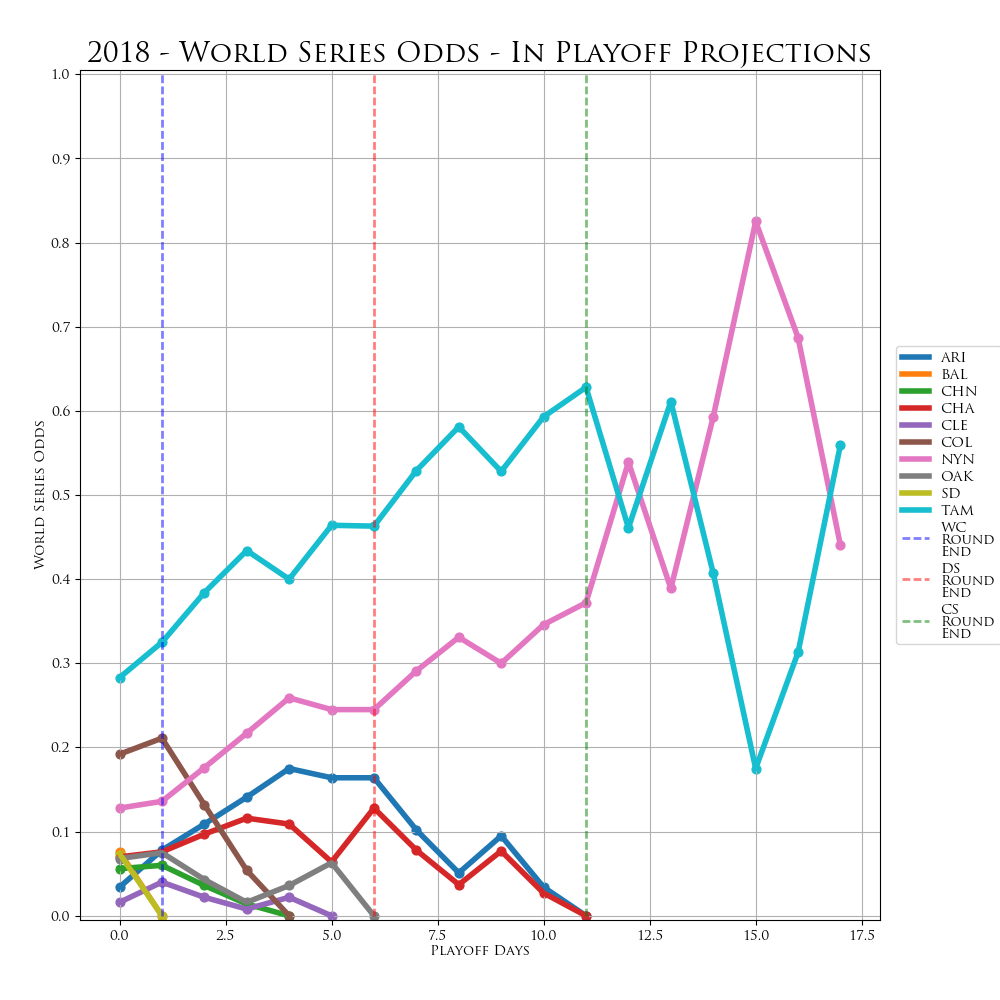
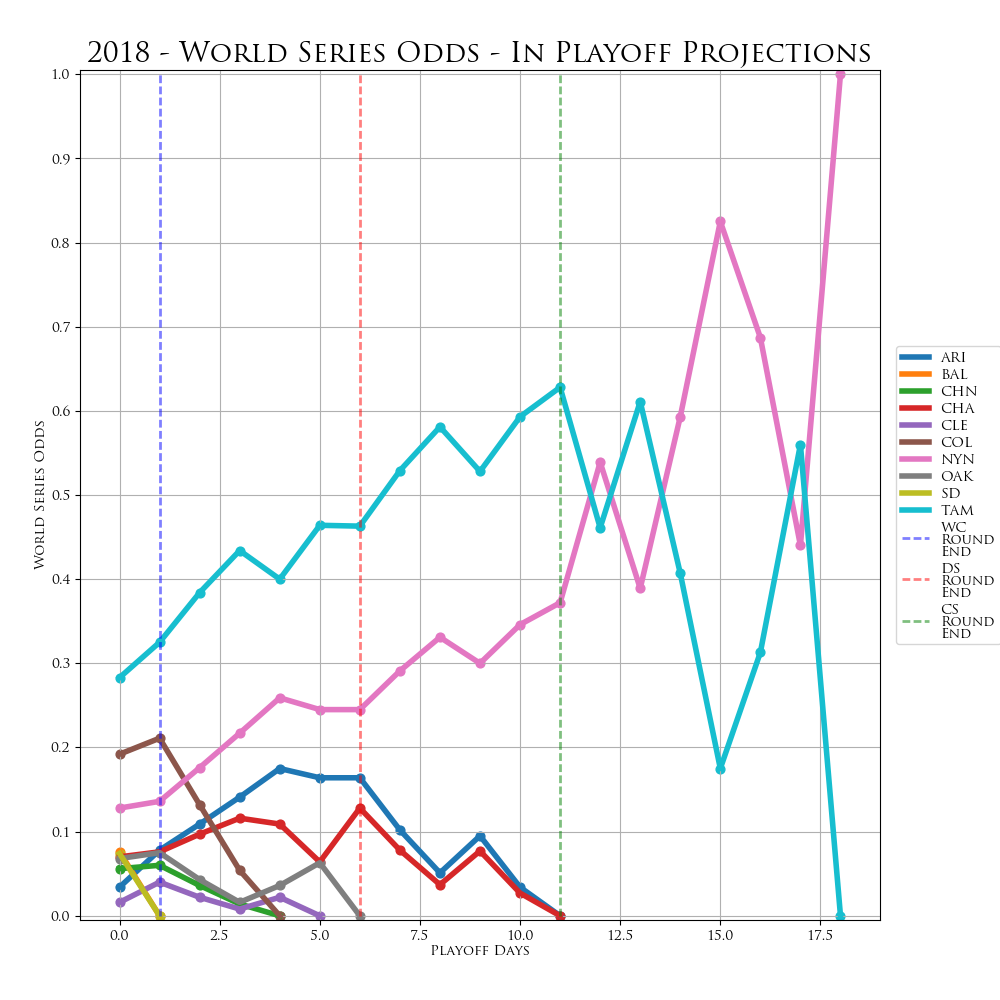
playoff NSBL update (Nov 20, 2018)

diff --git a/Tables/in_playoff_bracket.html b/Tables/in_playoff_bracket.html
@@ -255,7 +255,7 @@ c+"</h1><div>"+("function"===typeof e.message?e.message(b,h,e):e.message)+"</div
 </script>
 <script>
 		$(document).ready(function() {
-			$("#table").DataTable({"scroller":true,"dom":"Bfrtip","sScrollX":"100%","scrollY":"70vh","buttons":["copy","csv","json","print"],"paging":true,"bPaginate":false,"bLengthChange":false,"deferRender":true,"data":[["ALCS","Chicago White Sox","Tampa Bay Rays","1","4","0.0%","","","","",""],["ALCS","Tampa Bay Rays","Chicago White Sox","4","1","100.0%","","","100.0%","",""],["ALDS1","Chicago White Sox","Oakland Athletics","3","2","100.0%","","","100.0%","",""],["ALDS1","Oakland Athletics","Chicago White Sox","2","3","0.0%","","","","",""],["ALDS2","Cleveland Indians","Tampa Bay Rays","1","3","0.0%","","","","",""],["ALDS2","Tampa Bay Rays","Cleveland Indians","3","1","100.0%","","100.0%","","",""],["ALWC","Baltimore Orioles","Cleveland Indians","0","1","0.0%","","","","",""],["ALWC","Cleveland Indians","Baltimore Orioles","1","0","100.0%","","","","",""],["NLCS","Arizona Diamondbacks","New York Mets","1","4","0.0%","","","","",""],["NLCS","New York Mets","Arizona Diamondbacks","4","1","100.0%","","","100.0%","",""],["NLDS1","Chicago Cubs","New York Mets","0","3","0.0%","","","","",""],["NLDS1","New York Mets","Chicago Cubs","3","0","100.0%","100.0%","","","",""],["NLDS2","Arizona Diamondbacks","Colorado Rockies","3","0","100.0%","100.0%","","","",""],["NLDS2","Colorado Rockies","Arizona Diamondbacks","0","3","0.0%","","","","",""],["NLWC","Arizona Diamondbacks","San Diego Padres","1","0","100.0%","","","","",""],["NLWC","San Diego Padres","Arizona Diamondbacks","0","1","0.0%","","","","",""],["WS","New York Mets","Tampa Bay Rays","3","3","44.0%","","","","","44.0%"],["WS","Tampa Bay Rays","New York Mets","3","3","56.0%","","","","","56.0%"]],"sScrollXInner":"100%","columns":[{"title":"Series ID"},{"title":"Team Name"},{"title":"Opponent Name"},{"title":"Series Wins"},{"title":"Series Losses"},{"title":"Advance Probability"},{"title":"Win in 3"},{"title":"Win in 4"},{"title":"Win in 5"},{"title":"Win in 6"},{"title":"Win in 7"}],"iDisplayLength":-1});
+			$("#table").DataTable({"scroller":true,"dom":"Bfrtip","sScrollX":"100%","scrollY":"70vh","buttons":["copy","csv","json","print"],"paging":true,"bPaginate":false,"bLengthChange":false,"deferRender":true,"data":[["ALCS","Chicago White Sox","Tampa Bay Rays","1","4","0.0%","","","","",""],["ALCS","Tampa Bay Rays","Chicago White Sox","4","1","100.0%","","","100.0%","",""],["ALDS1","Chicago White Sox","Oakland Athletics","3","2","100.0%","","","100.0%","",""],["ALDS1","Oakland Athletics","Chicago White Sox","2","3","0.0%","","","","",""],["ALDS2","Cleveland Indians","Tampa Bay Rays","1","3","0.0%","","","","",""],["ALDS2","Tampa Bay Rays","Cleveland Indians","3","1","100.0%","","100.0%","","",""],["ALWC","Baltimore Orioles","Cleveland Indians","0","1","0.0%","","","","",""],["ALWC","Cleveland Indians","Baltimore Orioles","1","0","100.0%","","","","",""],["NLCS","Arizona Diamondbacks","New York Mets","1","4","0.0%","","","","",""],["NLCS","New York Mets","Arizona Diamondbacks","4","1","100.0%","","","100.0%","",""],["NLDS1","Chicago Cubs","New York Mets","0","3","0.0%","","","","",""],["NLDS1","New York Mets","Chicago Cubs","3","0","100.0%","100.0%","","","",""],["NLDS2","Arizona Diamondbacks","Colorado Rockies","3","0","100.0%","100.0%","","","",""],["NLDS2","Colorado Rockies","Arizona Diamondbacks","0","3","0.0%","","","","",""],["NLWC","Arizona Diamondbacks","San Diego Padres","1","0","100.0%","","","","",""],["NLWC","San Diego Padres","Arizona Diamondbacks","0","1","0.0%","","","","",""],["WS","New York Mets","Tampa Bay Rays","4","3","100.0%","","","","","100.0%"],["WS","Tampa Bay Rays","New York Mets","3","4","0.0%","","","","",""]],"sScrollXInner":"100%","columns":[{"title":"Series ID"},{"title":"Team Name"},{"title":"Opponent Name"},{"title":"Series Wins"},{"title":"Series Losses"},{"title":"Advance Probability"},{"title":"Win in 3"},{"title":"Win in 4"},{"title":"Win in 5"},{"title":"Win in 6"},{"title":"Win in 7"}],"iDisplayLength":-1});
 		});
 	</script>
 <style>

diff --git a/Tables/in_playoff_probabilities.html b/Tables/in_playoff_probabilities.html
@@ -227,7 +227,7 @@ c+"</h1><div>"+("function"===typeof e.message?e.message(b,h,e):e.message)+"</div
 </script>
 <script>
 		$(document).ready(function() {
-			$("#table").DataTable({"dom":"Bfrtip","sScrollX":"100%","scrollY":"70vh","buttons":["copy","csv","json","print"],"paging":true,"lengthMenu":[[-1,10,25,50],["All",10,25,50]],"data":[["Arizona Diamondbacks","0.0%","100.0%","100.0%","100.0%","100.0%","0.0%","0.0%"],["Baltimore Orioles","0.0%","100.0%","0.0%","0.0%","0.0%","0.0%","0.0%"],["Chicago Cubs","100.0%","0.0%","","100.0%","0.0%","0.0%","0.0%"],["Chicago White Sox","100.0%","0.0%","","100.0%","100.0%","0.0%","0.0%"],["Cleveland Indians","0.0%","100.0%","100.0%","100.0%","0.0%","0.0%","0.0%"],["Colorado Rockies","100.0%","0.0%","","100.0%","0.0%","0.0%","0.0%"],["New York Mets","100.0%","0.0%","","100.0%","100.0%","100.0%","44.0%"],["Oakland Athletics","100.0%","0.0%","","100.0%","0.0%","0.0%","0.0%"],["San Diego Padres","0.0%","100.0%","0.0%","0.0%","0.0%","0.0%","0.0%"],["Tampa Bay Rays","100.0%","0.0%","","100.0%","100.0%","100.0%","56.0%"]],"sScrollXInner":"100%","columns":[{"title":"Team Name"},{"title":"Win Div"},{"title":"Make Wild Card"},{"title":"Win Wild Card"},{"title":"Make LDS"},{"title":"Make LCS"},{"title":"Make WS"},{"title":"Win WS"}],"iDisplayLength":-1});
+			$("#table").DataTable({"dom":"Bfrtip","sScrollX":"100%","scrollY":"70vh","buttons":["copy","csv","json","print"],"paging":true,"lengthMenu":[[-1,10,25,50],["All",10,25,50]],"data":[["Arizona Diamondbacks","0.0%","100.0%","100.0%","100.0%","100.0%","0.0%","0.0%"],["Baltimore Orioles","0.0%","100.0%","0.0%","0.0%","0.0%","0.0%","0.0%"],["Chicago Cubs","100.0%","0.0%","","100.0%","0.0%","0.0%","0.0%"],["Chicago White Sox","100.0%","0.0%","","100.0%","100.0%","0.0%","0.0%"],["Cleveland Indians","0.0%","100.0%","100.0%","100.0%","0.0%","0.0%","0.0%"],["Colorado Rockies","100.0%","0.0%","","100.0%","0.0%","0.0%","0.0%"],["New York Mets","100.0%","0.0%","","100.0%","100.0%","100.0%","100.0%"],["Oakland Athletics","100.0%","0.0%","","100.0%","0.0%","0.0%","0.0%"],["San Diego Padres","0.0%","100.0%","0.0%","0.0%","0.0%","0.0%","0.0%"],["Tampa Bay Rays","100.0%","0.0%","","100.0%","100.0%","100.0%","0.0%"]],"sScrollXInner":"100%","columns":[{"title":"Team Name"},{"title":"Win Div"},{"title":"Make Wild Card"},{"title":"Win Wild Card"},{"title":"Make LDS"},{"title":"Make LCS"},{"title":"Make WS"},{"title":"Win WS"}],"iDisplayLength":-1});
 		});
 	</script>
 <style>
